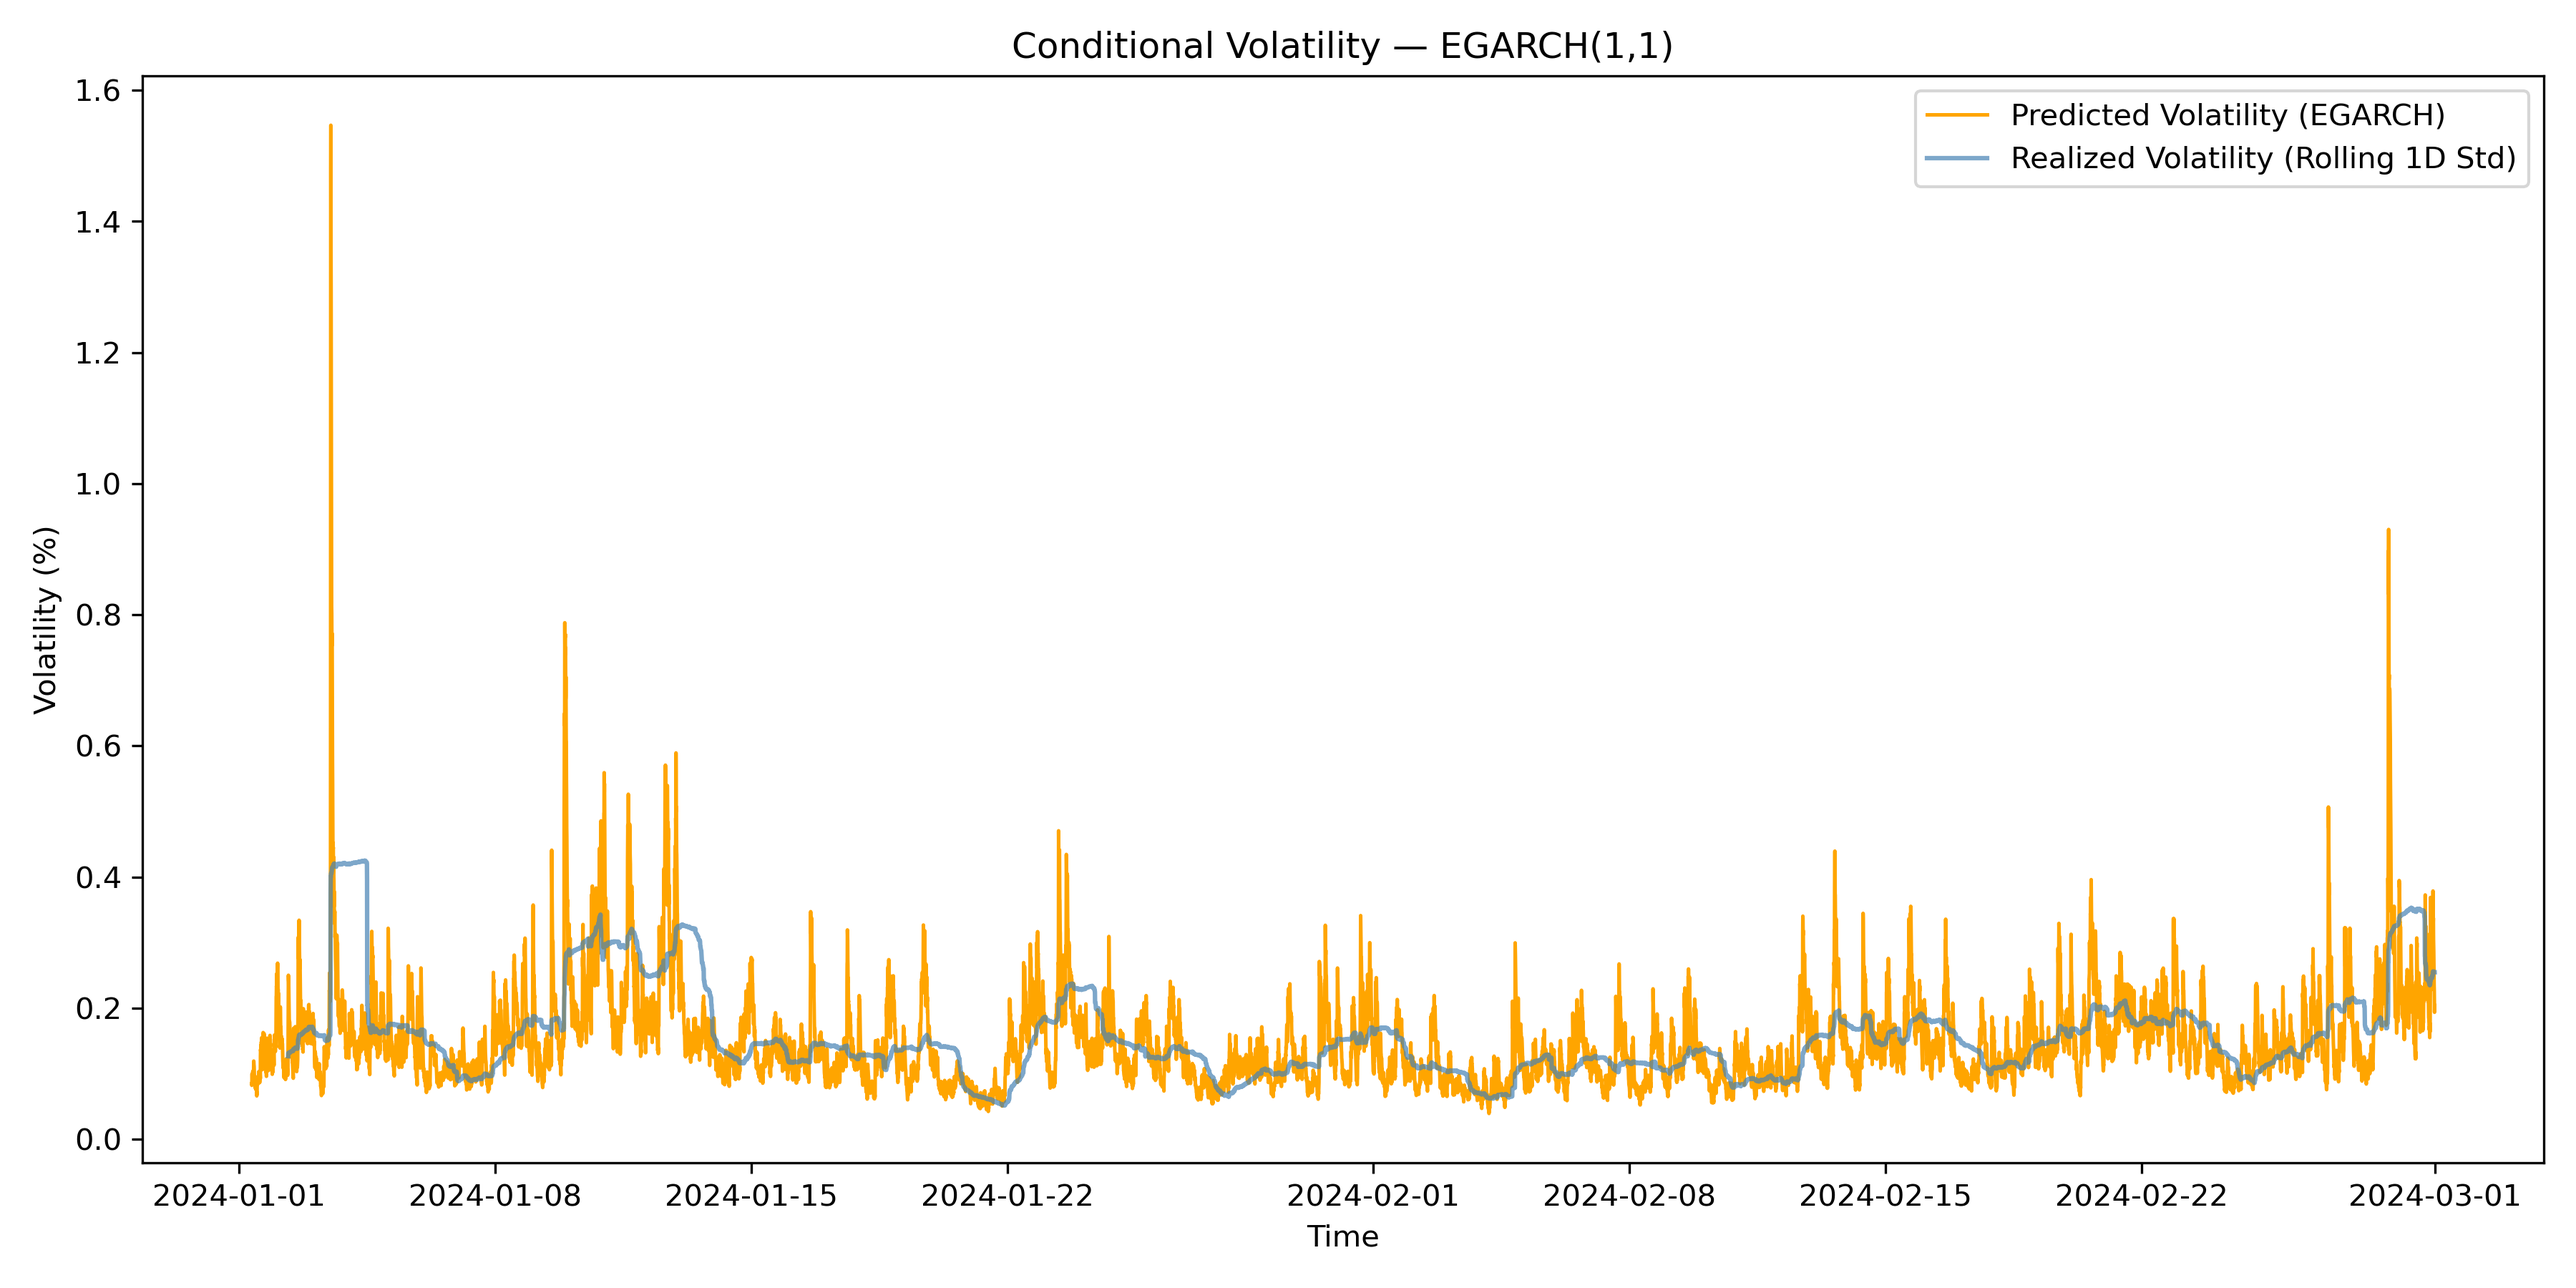
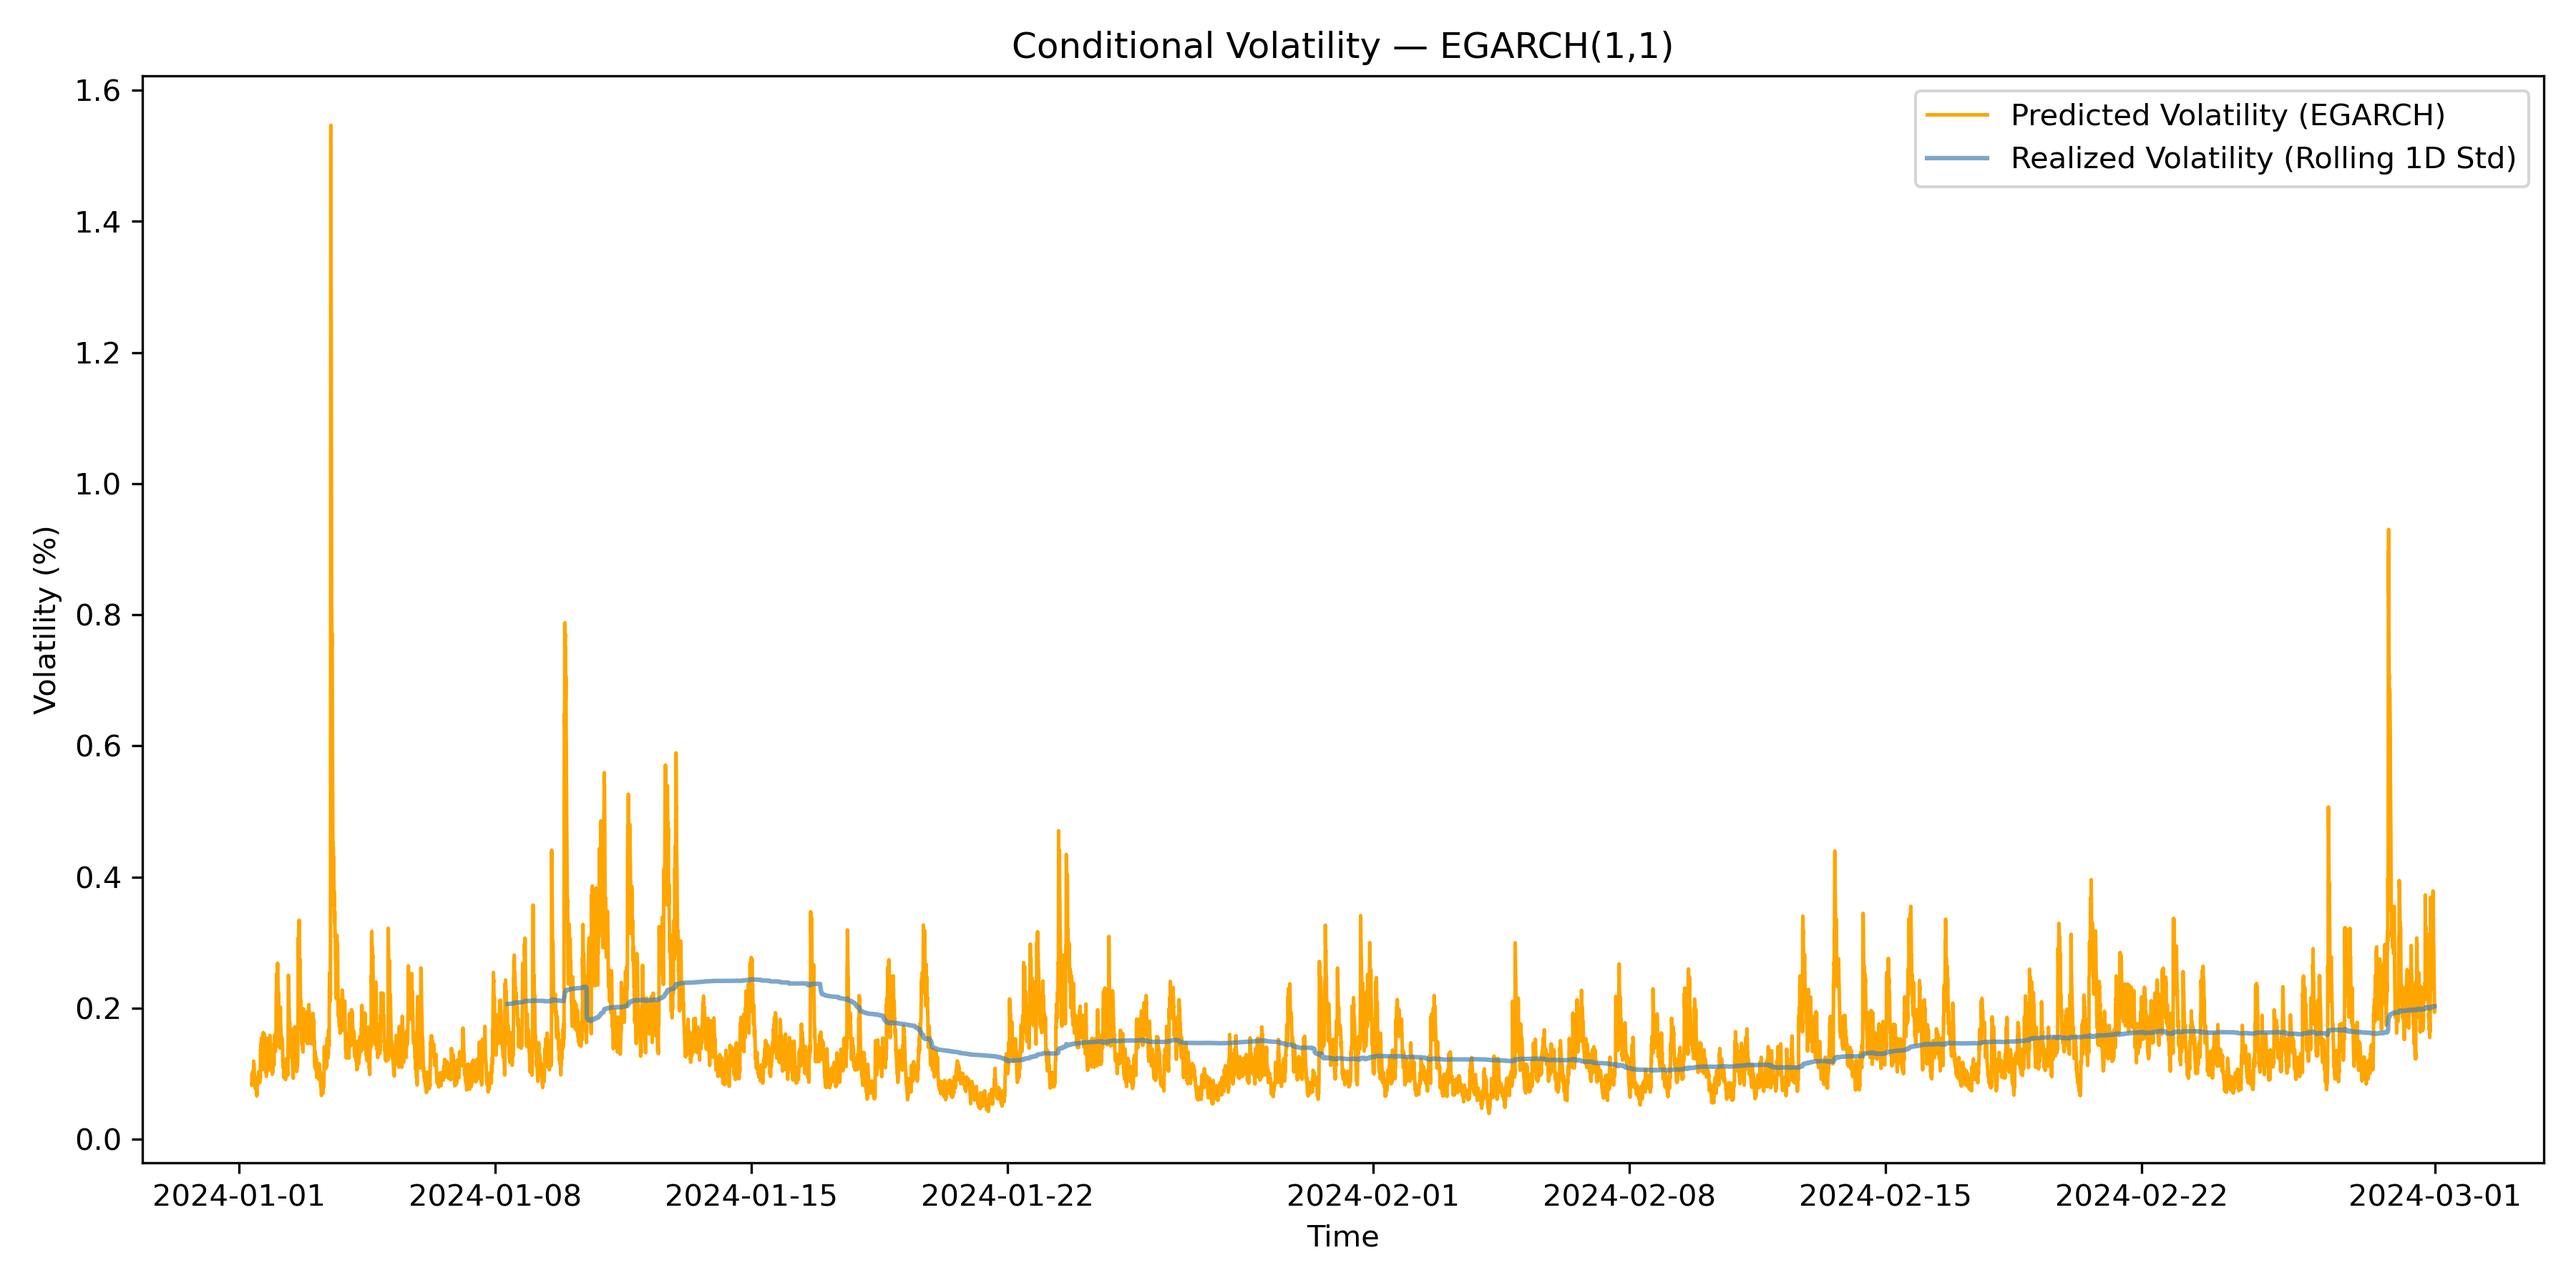
EGARCH description

diff --git a/projects/ETH-volitality-fotecasting/src/egarch_model.py b/projects/ETH-volitality-fotecasting/src/egarch_model.py
@@ -1,5 +1,5 @@
 # === EGARCH model training and evaluation ===
-from src.config import *                     # centralized imports + paths
+from src.config import *                     
 from src.data_loader import load_eth_data
 from src.feature_engineering import build_features
 from arch import arch_model
@@ -79,7 +79,7 @@ def plot_conditional_variance(res, df, save_path=None):
 
     fig, ax = plt.subplots(figsize=(12, 6))
     cond_var = res.conditional_volatility
-    realized = df["log_return"].rolling(window=288).std() * 100
+    realized = df["log_return"].rolling(window=min(len(df), ROLLING_WINDOW)).std() * 100
 
     ax.plot(df["open_time"].iloc[-len(cond_var):], cond_var,
             label="Predicted Volatility (EGARCH)", color="orange", lw=1.2)
